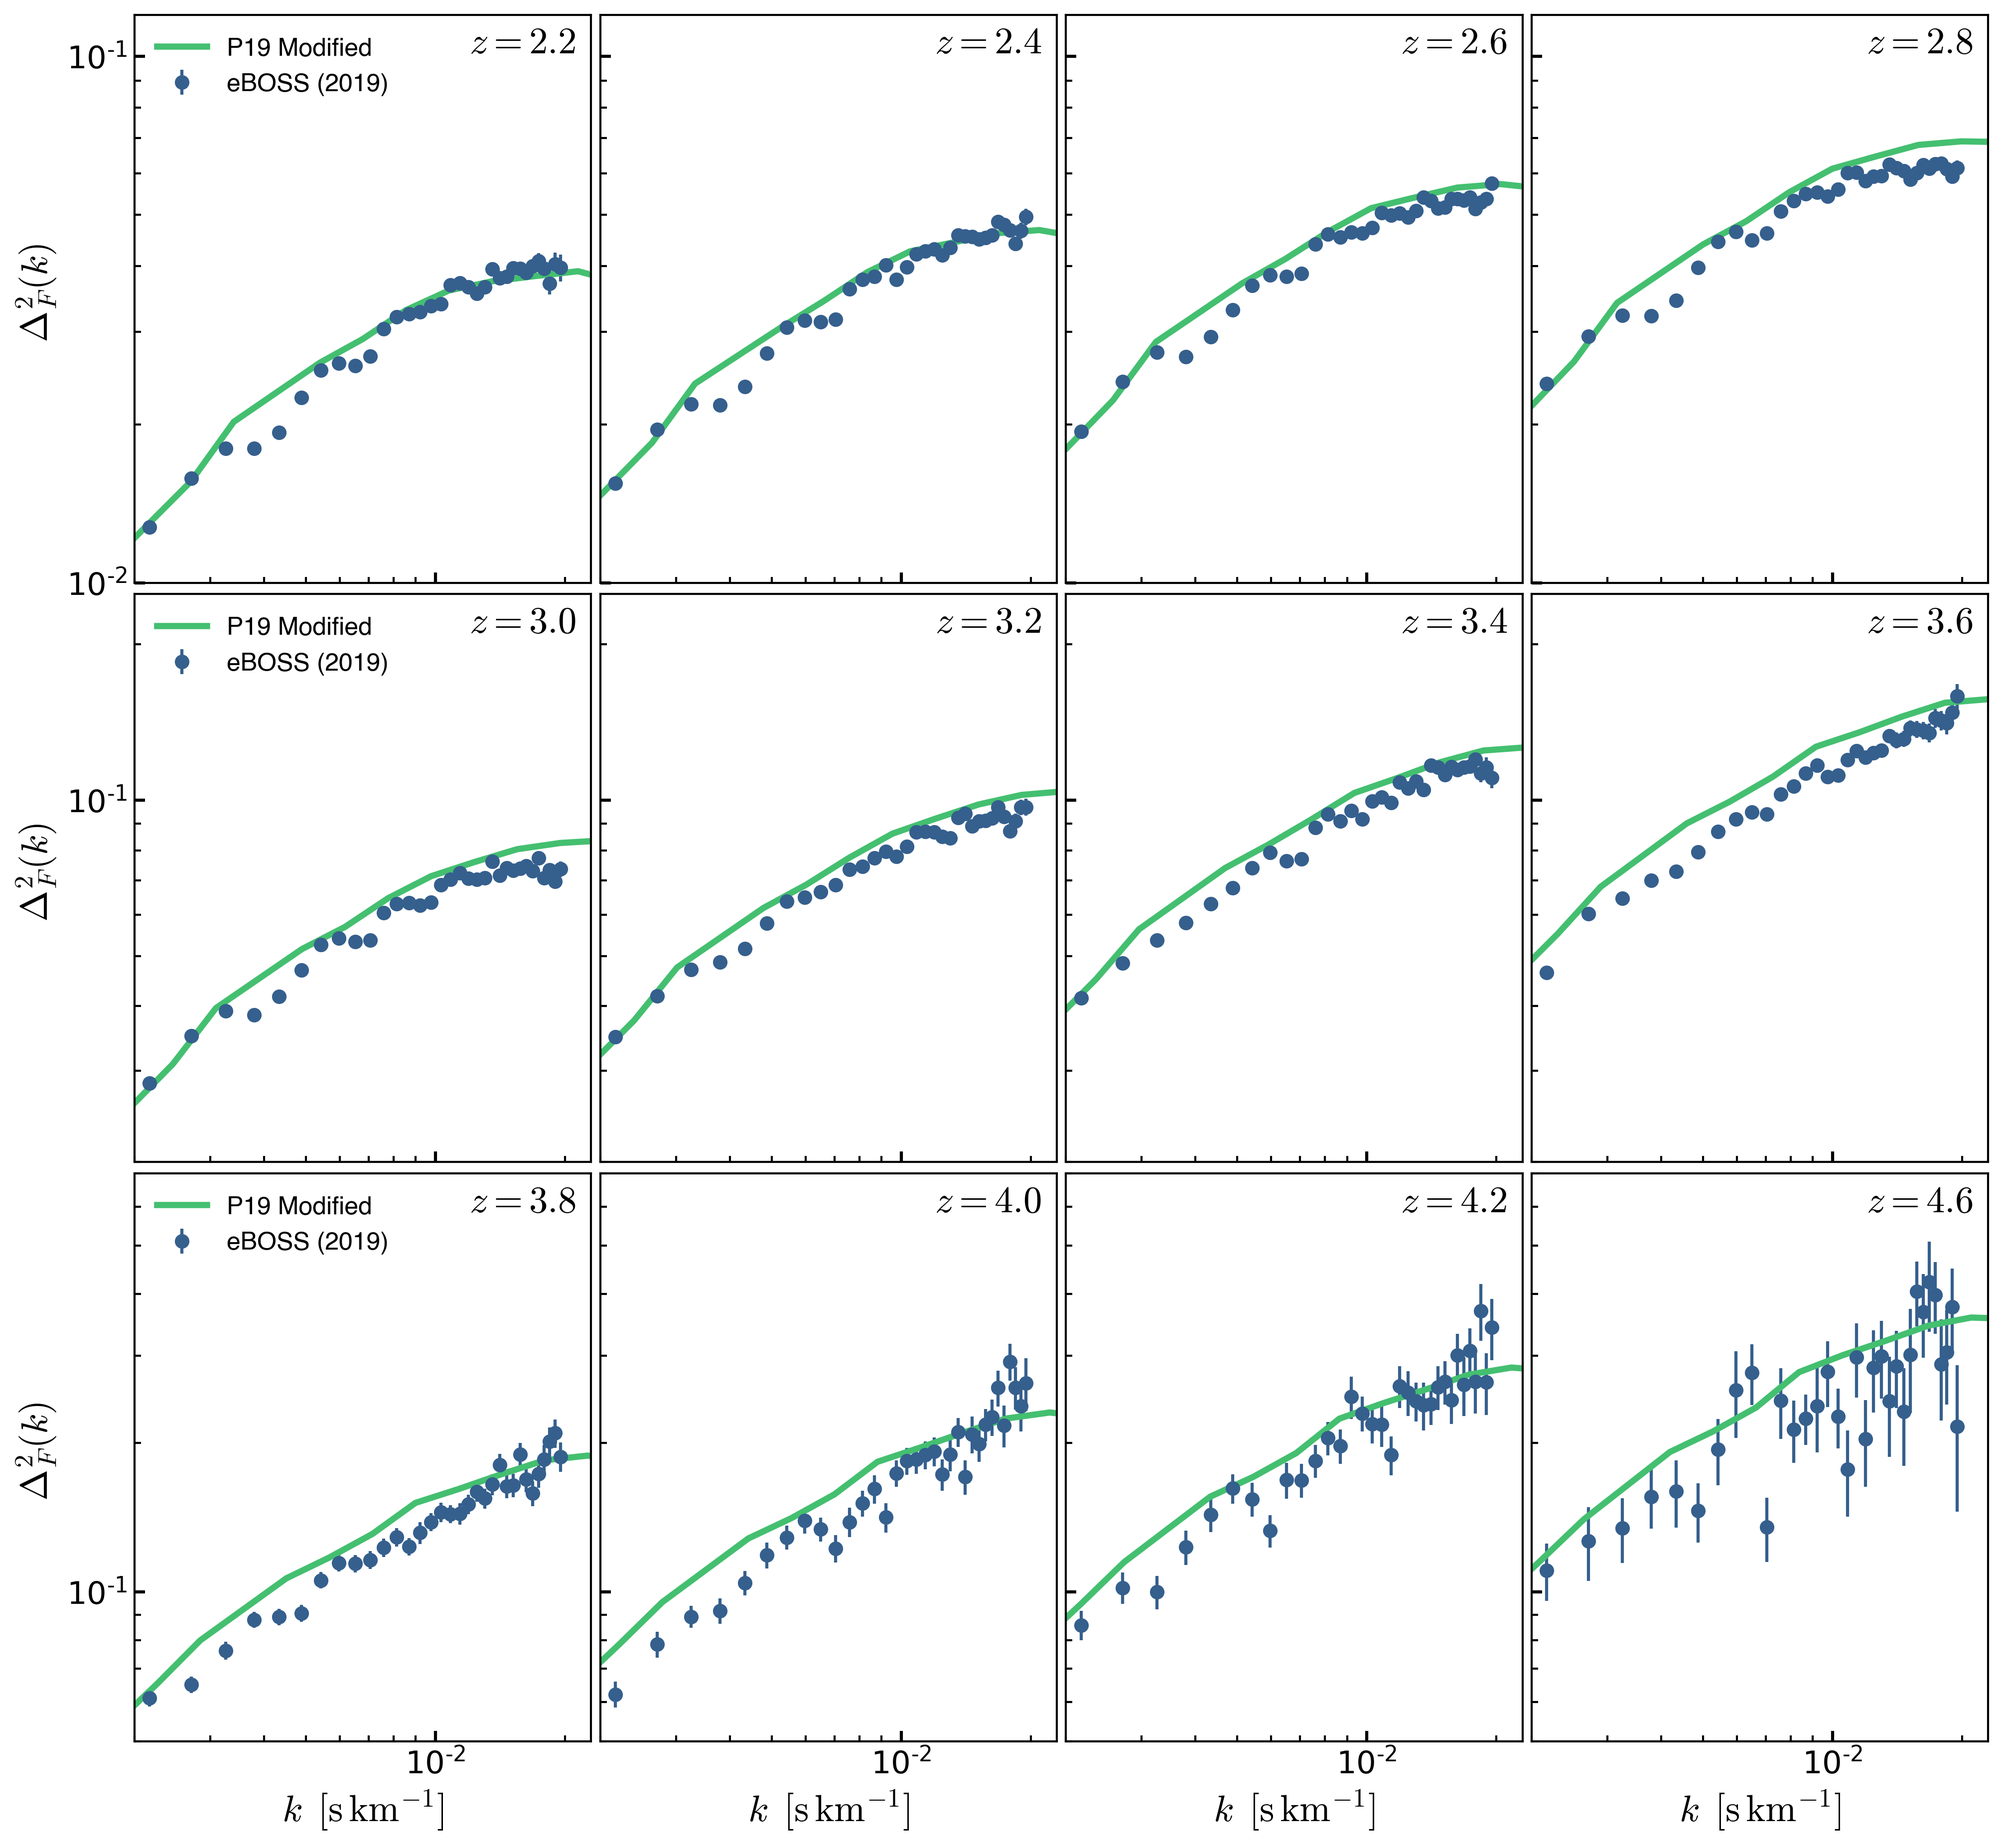
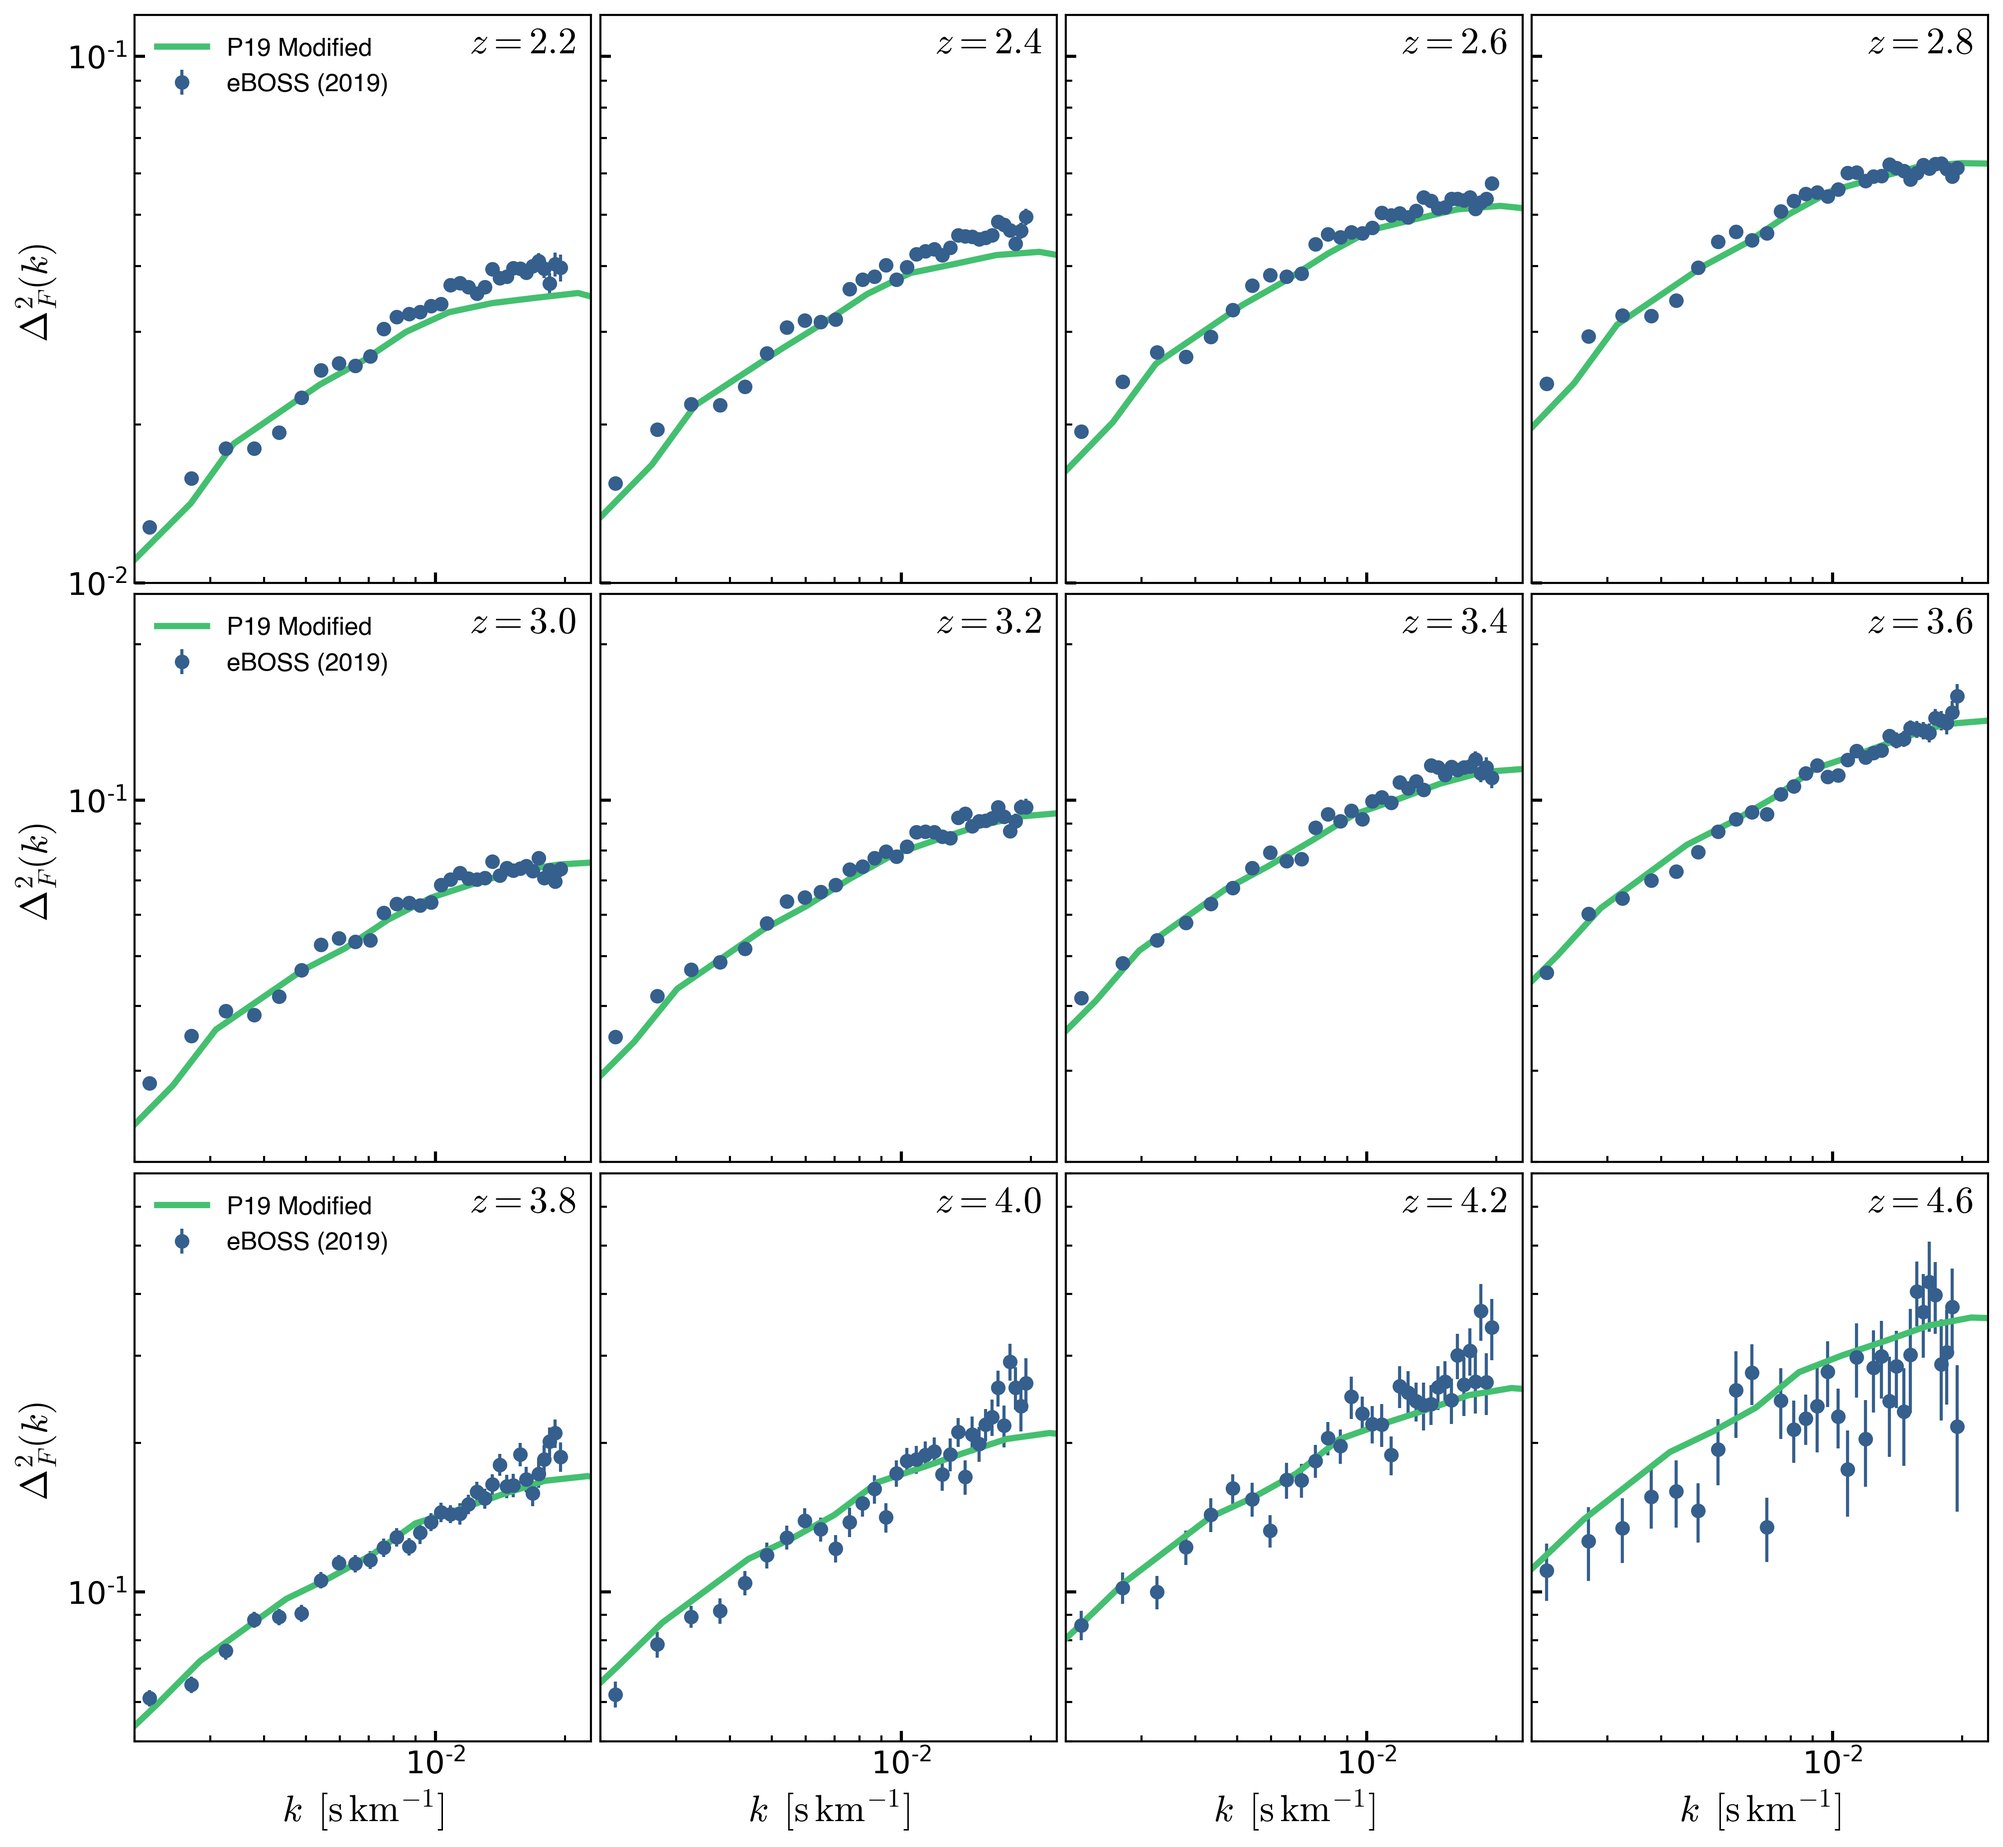
fixed post

diff --git a/astro/_posts/2021-01-13-P19_modified.md b/astro/_posts/2021-01-13-P19_modified.md
@@ -28,3 +28,9 @@ Using the values obtained from the previous fit:
 ## Flux Power Spectrum: Large Scales
 
 <img src="{{ site.url }}assets/images/flux_ps_grid_large_mod_0.png">
+
+
+
+## Flux Power Spectrum: Middle Scales
+
+<img src="{{ site.url }}assets/images/flux_ps_grid_middle_mod_0.png">
